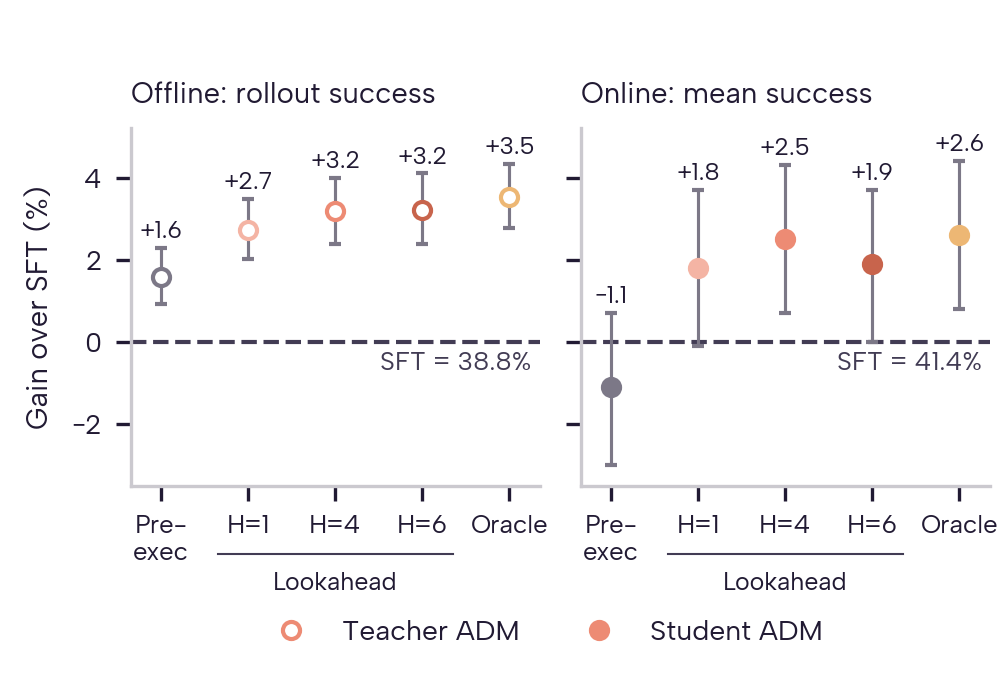
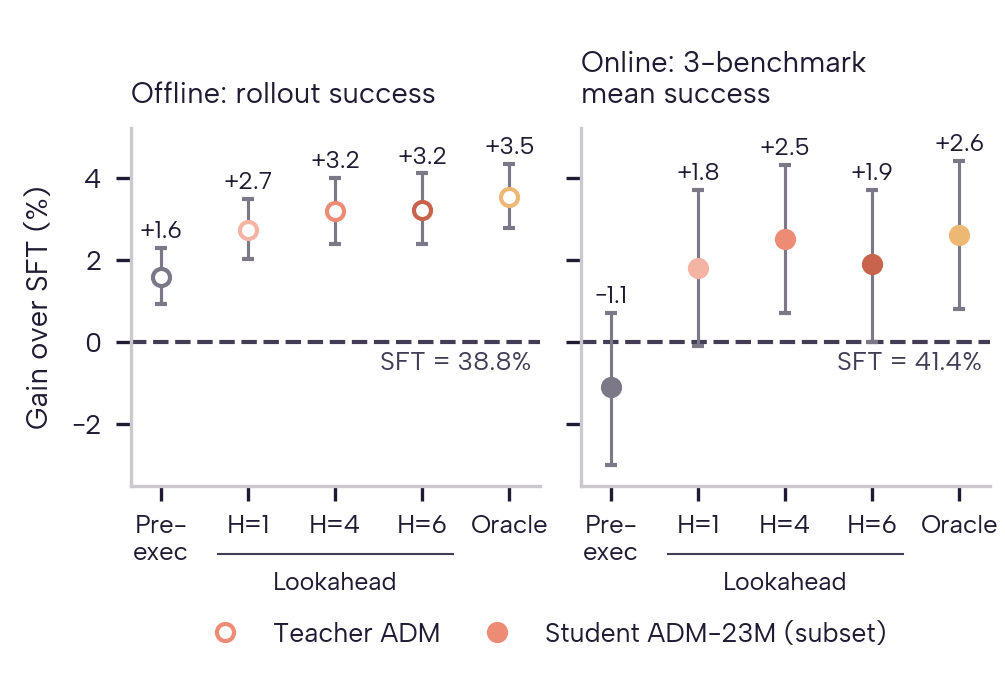
Clarify three-benchmark label comparison and subset-trained student

Changed region(s): [[0.2776, 0.9022, 0.8945, 0.9644], [0.5552, 0.0622, 0.8637, 0.1556], [0.2159, 0.9022, 0.2468, 0.9644]]

diff --git a/openwebrl/docs/arm_results/rl_integration/selection-label-setups-kfold-teacher-only-offline-salmon-20261115-plot.py b/openwebrl/docs/arm_results/rl_integration/selection-label-setups-kfold-teacher-only-offline-salmon-20261115-plot.py
@@ -48,7 +48,7 @@ P = K["pooled"]
 PANELS = [
     ("Offline: rollout success",
      "offline", P["sft_sample"]),
-    ("Online: mean success", "live", LIVE3["weighted"]["sft"]["overall"])]
+    ("Online: 3-benchmark\nmean success", "live", LIVE3["weighted"]["sft"]["overall"])]
 
 
 def point(ax, x, v, color, marker, filled, outline=None):
@@ -99,8 +99,8 @@ handles = [
     Line2D([], [], marker="o", ls="", color=C["LOOKAHEAD_TEACHER"], ms=4.1,
            markeredgewidth=1.0, markerfacecolor=C["LOOKAHEAD_TEACHER"]),
 ]
-fig.legend(handles, ["Teacher ADM", "Student ADM"], frameon=False, fontsize=6.8,
-           loc="lower center", ncol=2, bbox_to_anchor=(0.54, 0.005), columnspacing=1.8)
+fig.legend(handles, ["Teacher ADM", "Student ADM-23M (subset)"], frameon=False, fontsize=6.4,
+           loc="lower center", ncol=2, bbox_to_anchor=(0.54, 0.005), columnspacing=1.1)
 # Cohorts, baselines, seeds and interval definitions are in the document caption.
 fig.subplots_adjust(left=0.13, right=0.985, top=0.81, bottom=0.28, wspace=0.10)
 fig.canvas.draw()

diff --git a/openwebrl/docs/ARM_FINAL_RESULTS.md b/openwebrl/docs/ARM_FINAL_RESULTS.md
@@ -2001,7 +2001,7 @@ All four attention × scorer × loss combinations plus causal attention, one run
 
   ![Teacher ADM held-out rollout success and student ADM online success by label source, with lookahead horizons in graded salmon](arm_results/rl_integration/selection-label-setups-kfold-teacher-only-offline-salmon-20261115.png)
 
-  [PDF](arm_results/rl_integration/selection-label-setups-kfold-teacher-only-offline-salmon-20261115.pdf) · [SVG](arm_results/rl_integration/selection-label-setups-kfold-teacher-only-offline-salmon-20261115.svg) · [plot script](arm_results/rl_integration/selection-label-setups-kfold-teacher-only-offline-salmon-20261115-plot.py). Values identical to the figure above. Each zero line is labeled with its absolute SFT baseline (offline 38.8%, online 41.4%). The axis uses `%` for differences between percent-valued success rates (percentage-point gains); values and confidence intervals are unchanged.
+  [PDF](arm_results/rl_integration/selection-label-setups-kfold-teacher-only-offline-salmon-20261115.pdf) · [SVG](arm_results/rl_integration/selection-label-setups-kfold-teacher-only-offline-salmon-20261115.svg) · [plot script](arm_results/rl_integration/selection-label-setups-kfold-teacher-only-offline-salmon-20261115-plot.py). Values identical to the figure above. Each zero line is labeled with its absolute SFT baseline (offline 38.8%, online 41.4%). Online Student ADM-23M (22.6M parameters) is trained on the 1,380-state training subset. Online SFT is task-weighted overall success: 1,298 successes / 3,135 scheduled episodes (three runs); task-weighted valid-only is 43.5%, while the equal-benchmark overall mean is 39.9%. Offline SFT is the 38.76% mean success on valid held-out continuation draws, a different population and denominator. The axis uses `%` for differences between percent-valued success rates (percentage-point gains); values and confidence intervals are unchanged.
 
   **With the head-size label ablation (November 15):**
 
